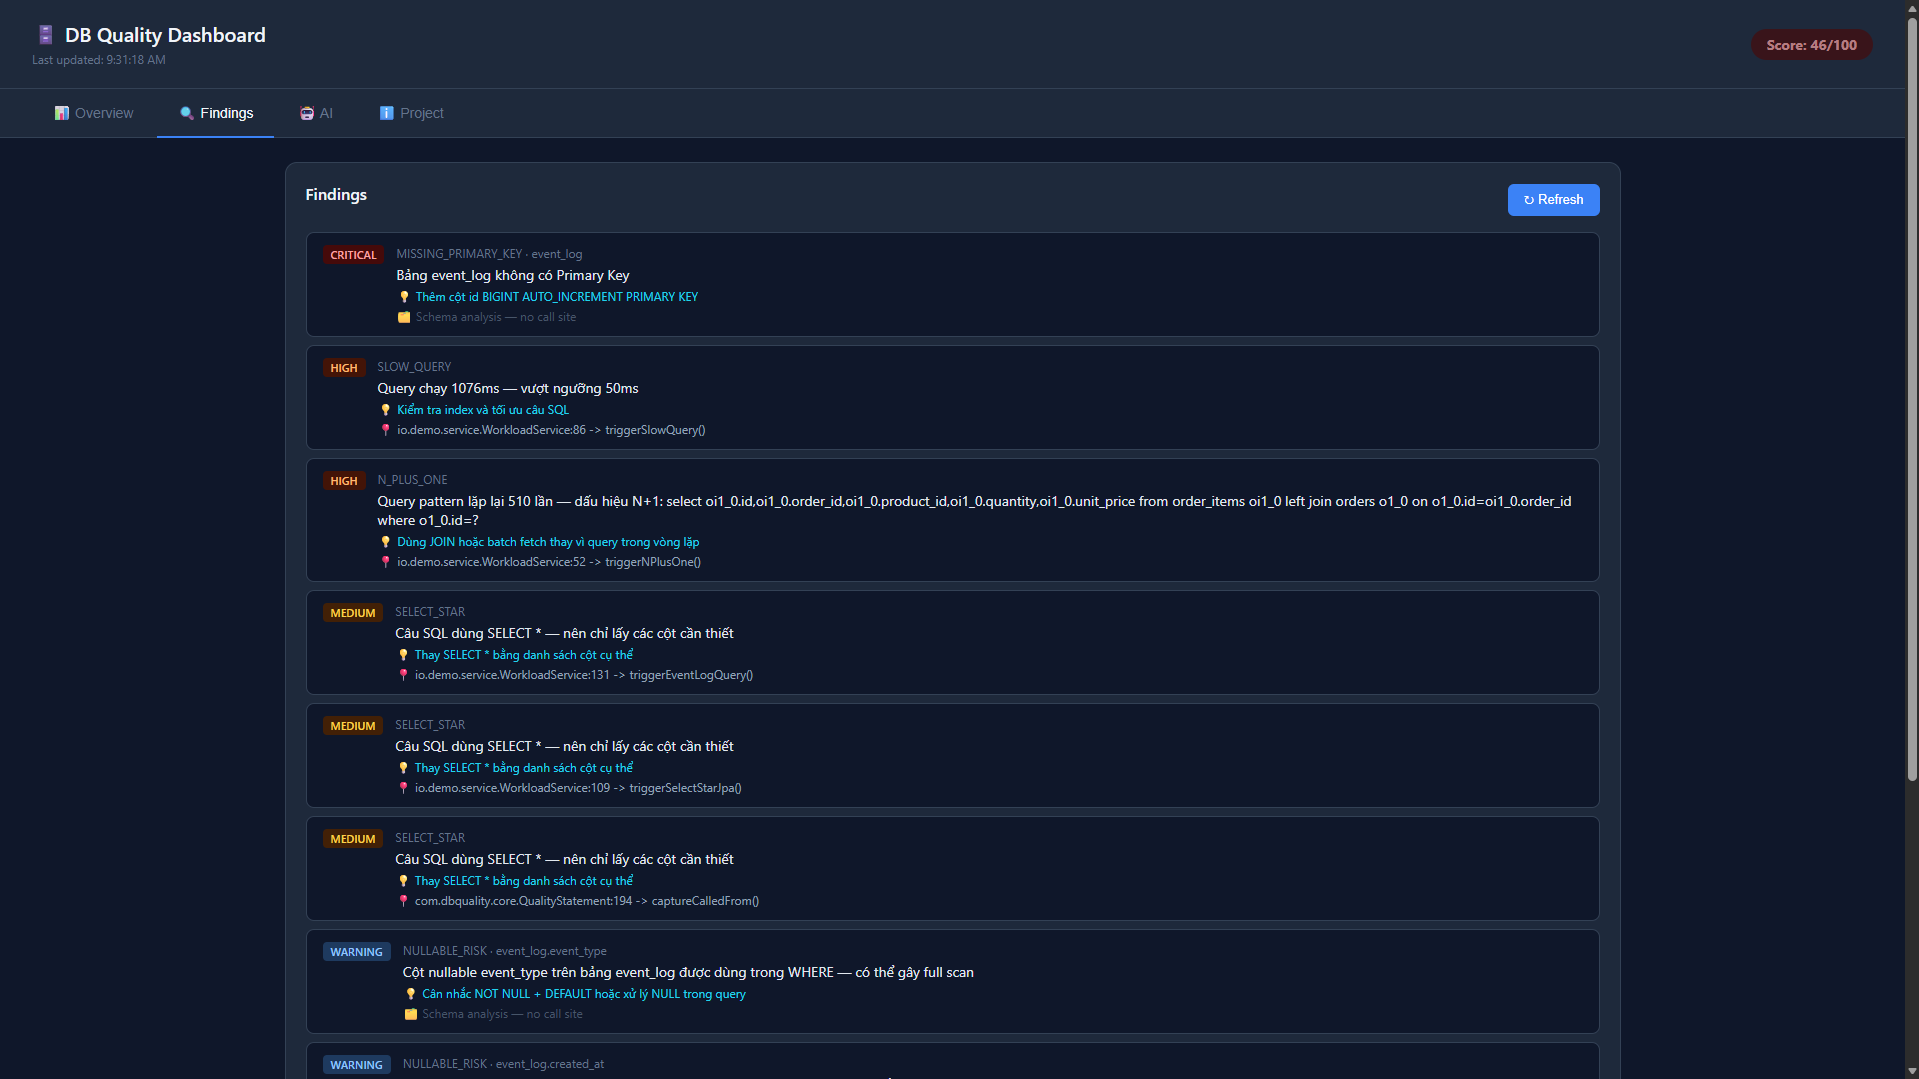
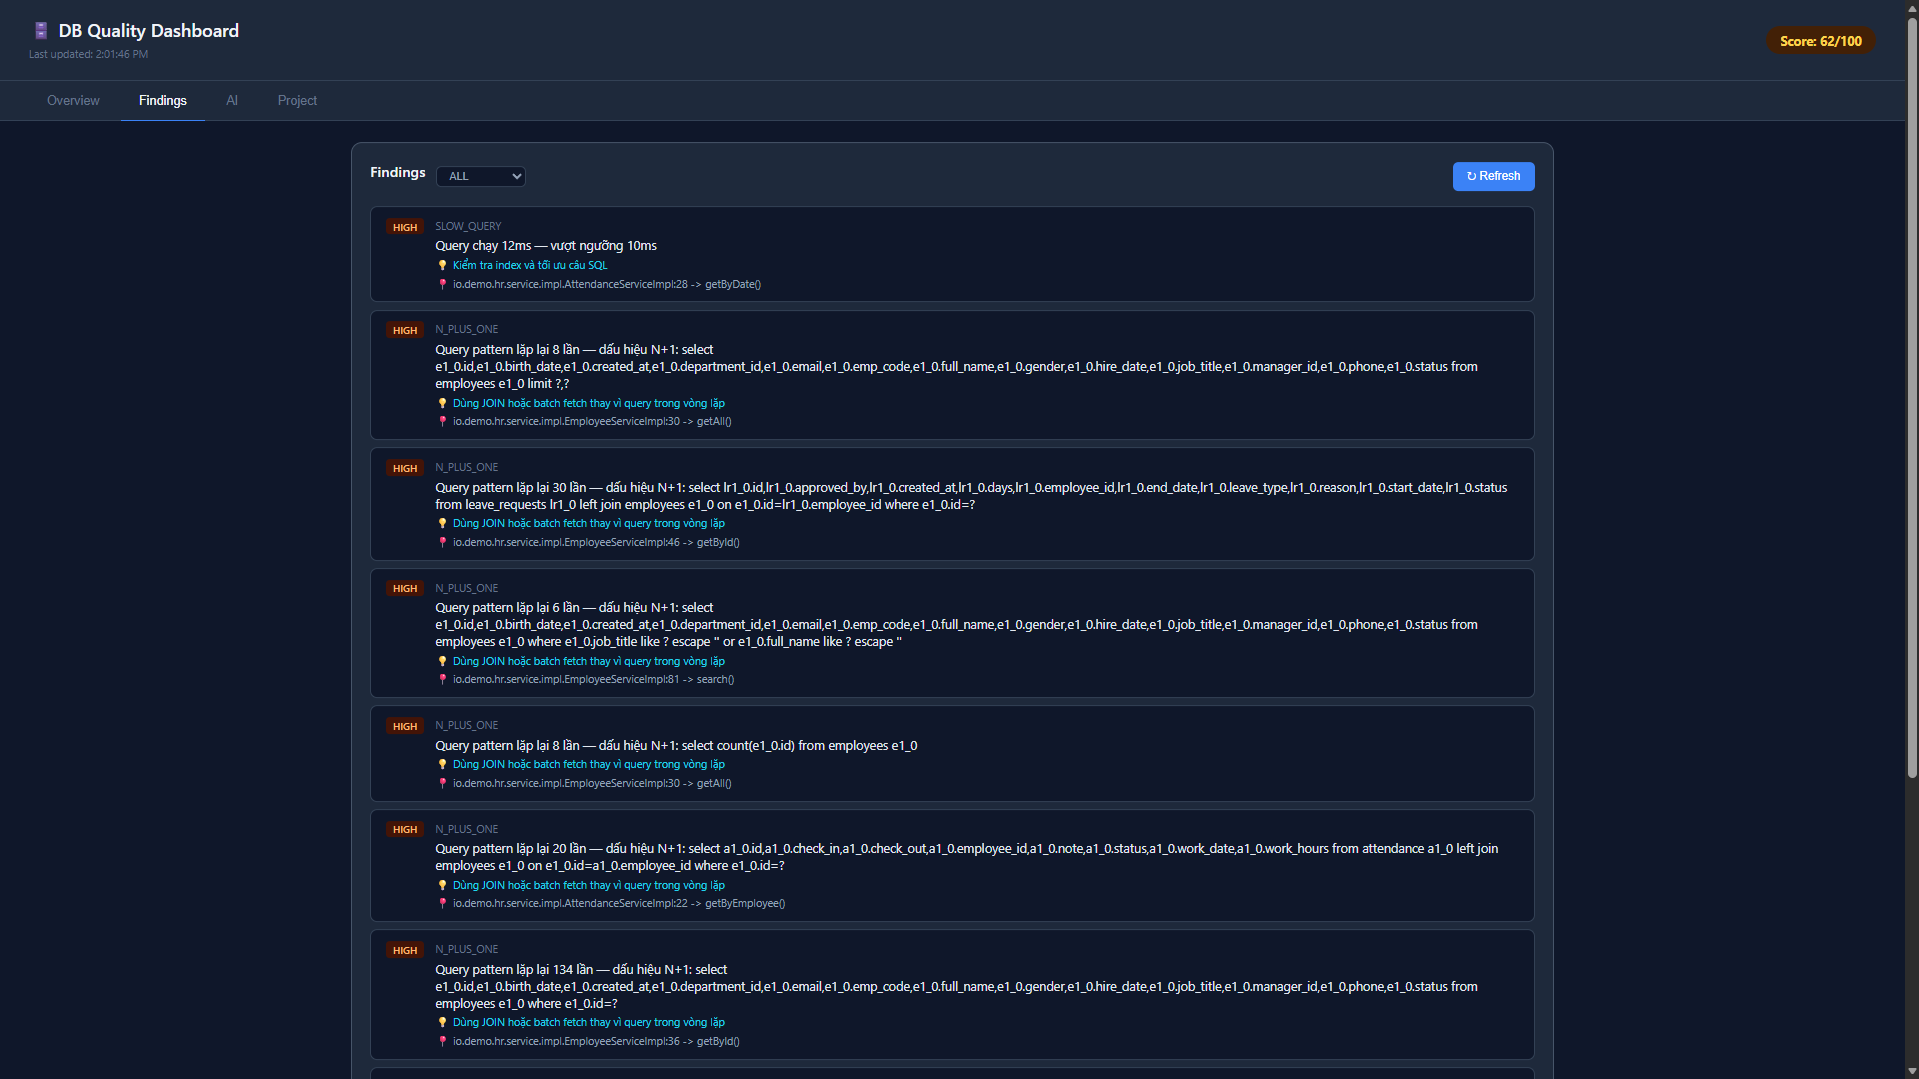
update README (#24)

diff --git a/README.md b/README.md
@@ -9,6 +9,9 @@
 
 ---
 
+![Demo](./public/guide.gif)
+---
+
 ## Mục lục
 
 - [Cách hoạt động](#cách-hoạt-động)
@@ -285,6 +288,8 @@ Dashboard được chia thành 4 tab:
 | **AI** | AI-ready context để copy/export, AI Insights từ LLM (nếu được bật) |
 | **Project** | Thông tin database, framework, ORM, connection pool, JVM, memory |
 
+
+
 <p align="center">
   <img src="public/tab-finding.png" alt="Dashboard Findings" width="800"/>
   <br/>
@@ -292,10 +297,23 @@ Dashboard được chia thành 4 tab:
 </p>
 
 <p align="center">
+  <img src="public/tab-finding-filter.png" alt="Dashboard Findings" width="800"/>
+  <br/>
+  <em>Filter theo severity</em>
+</p>
+
+<p align="center">
   <img src="public/tab-ai.png" alt="Dashboard AI" width="800"/>
   <br/>
   <em>Tab AI — AI-ready context và AI Insights từ LLM</em>
 </p>
+
+<p align="center">
+  <img src="public/tab-ai-2.png" alt="Dashboard AI" width="800"/>
+  <br/>
+  <em>Tab AI — AI-ready context và AI Insights từ LLM</em>
+</p>
+
 
 <p align="center">
   <img src="public/tab-project.png" alt="Dashboard Project" width="800"/>
@@ -380,9 +398,9 @@ Với mỗi slow query, thư viện tự động chạy `EXPLAIN` và parse kế
 Kết quả được hiển thị trong modal khi click nút **EXPLAIN** trên tab Overview.
 
 <p align="center">
-  <img src="public/execution-plan.png" alt="Execution plan" width="800"/>
+  <img src="public/tab-overview-execution-plan.png" alt="Dashboard Findings" width="800"/>
   <br/>
-  <em>Execution Plan modal — phân tích chi tiết query chậm</em>
+  <em>Execution Plan cho những câu queries chạy vượt ngưỡng</em>
 </p>
 
 ### Database được hỗ trợ cho Execution Plan
